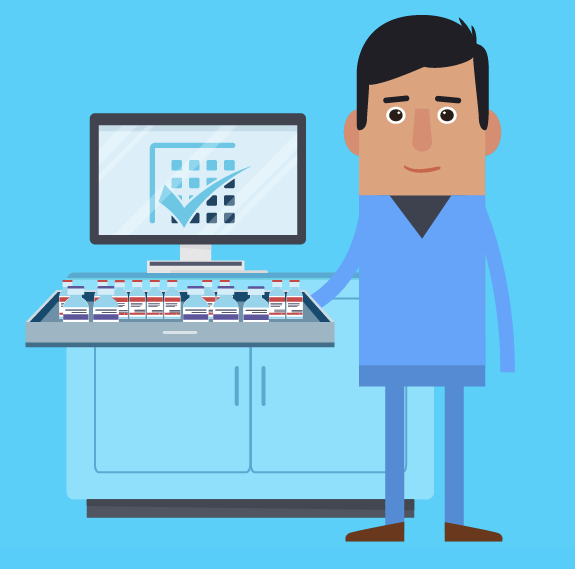
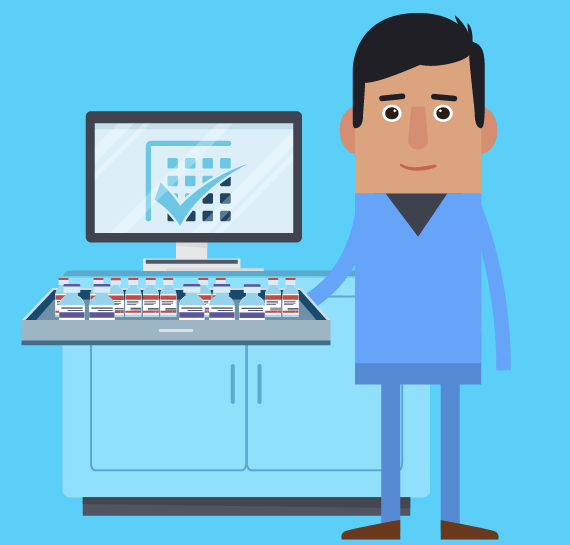
new images for index page, updated spelling error on about page

diff --git a/styles/main.css b/styles/main.css
@@ -240,4 +240,9 @@ footer .mdl-logo a {
   color: #FF6216;
 }
 
+.joell-card-image {
+  width: auto;
+  height: 175px;
+}
+
[1 lines of base64/hex data omitted]

diff --git a/index.html b/index.html
@@ -70,7 +70,7 @@
   <section class="section--center mdl-grid site-max-width">
       <div class="mdl-cell mdl-card mdl-shadow--4dp portfolio-card">
           <div class="mdl-card__media">
-              <img class="article-image" src="img/joell-process.png" border="0" alt="">
+              <img class="article-image joell-card-image" src="img/joell-process.png" border="0" alt="">
           </div>
           <div class="mdl-card__title">
               <h2 class="mdl-card__title-text">My Process</h2>
@@ -81,7 +81,7 @@
       </div>
       <div class="mdl-cell mdl-card mdl-shadow--4dp portfolio-card">
           <div class="mdl-card__media">
-              <img class="article-image" src="img/foco-index.png" border="0" alt="">
+              <img class="article-image joell-card-image" src="img/foco-index.png" border="0" alt="">
           </div>
           <div class="mdl-card__title">
               <h2 class="mdl-card__title-text">ALS Symptom Tracker</h2>
@@ -92,7 +92,7 @@
       </div>
       <div class="mdl-cell mdl-card mdl-shadow--4dp portfolio-card">
           <div class="mdl-card__media">
-              <img class="article-image" src="img/acheck.png" border="0" alt="">
+              <img class="article-image joell-card-image" src="img/acheck.png" border="0" alt="">
           </div>
           <div class="mdl-card__title">
               <h2 class="mdl-card__title-text">Kit Check</h2>

diff --git a/about.html b/about.html
@@ -38,7 +38,7 @@
                 <div class="mdl-cell mdl-cell--12-col"><h3 class="mdl-cell mdl-cell--12-col mdl-typography--headline">Who I Am</h3>
 <div class="mdl-cell mdl-cell--8-col mdl-card__supporting-text no-padding ">
     <p>
-      Head of Product focused on bringing effeciency and positive impact through practicle, simple and integrated technology.
+      Head of Product focused on bringing effeciency and positive impact through practical, simple and integrated technology.
     </p>
     <p>
       Full on believer and practicer of Lean UX and Agile principles of openness and transparency as well prioritizing new work based on things that deliver the most value to our users and customers, with each iteration.
